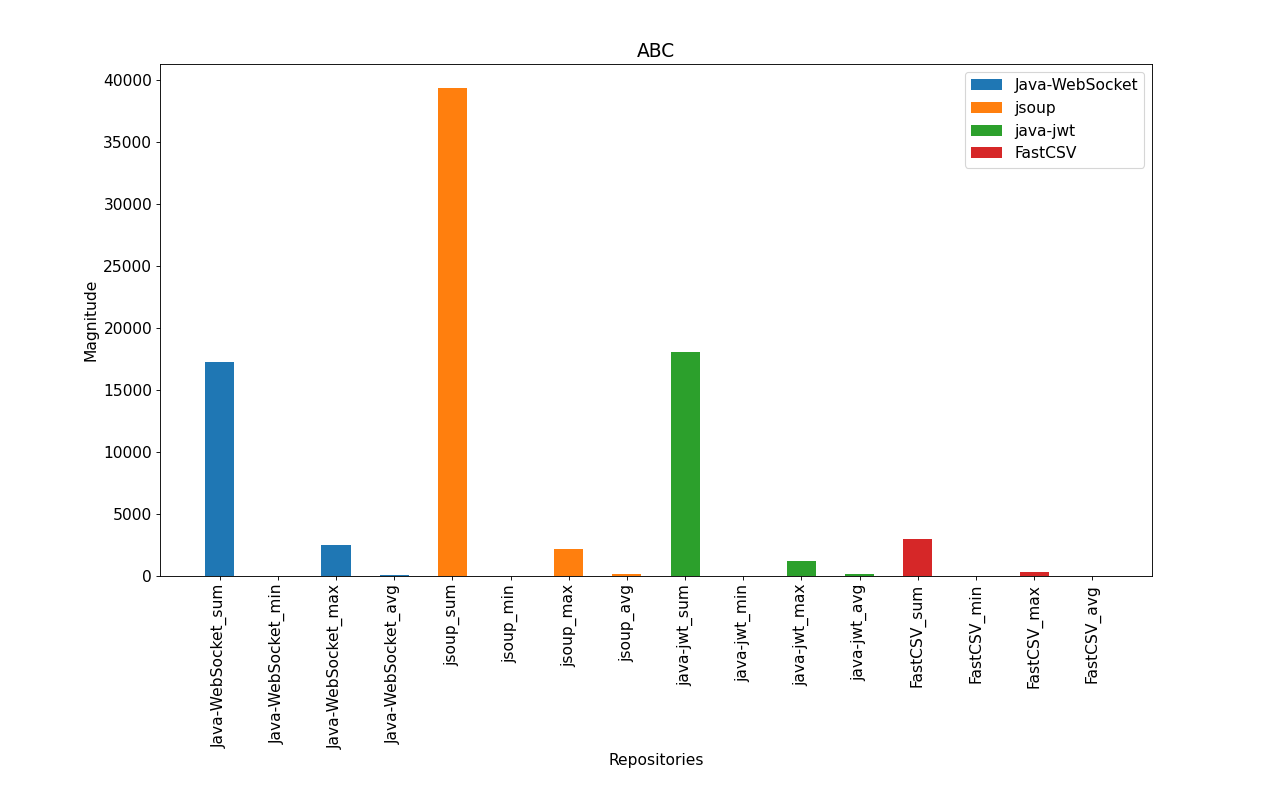
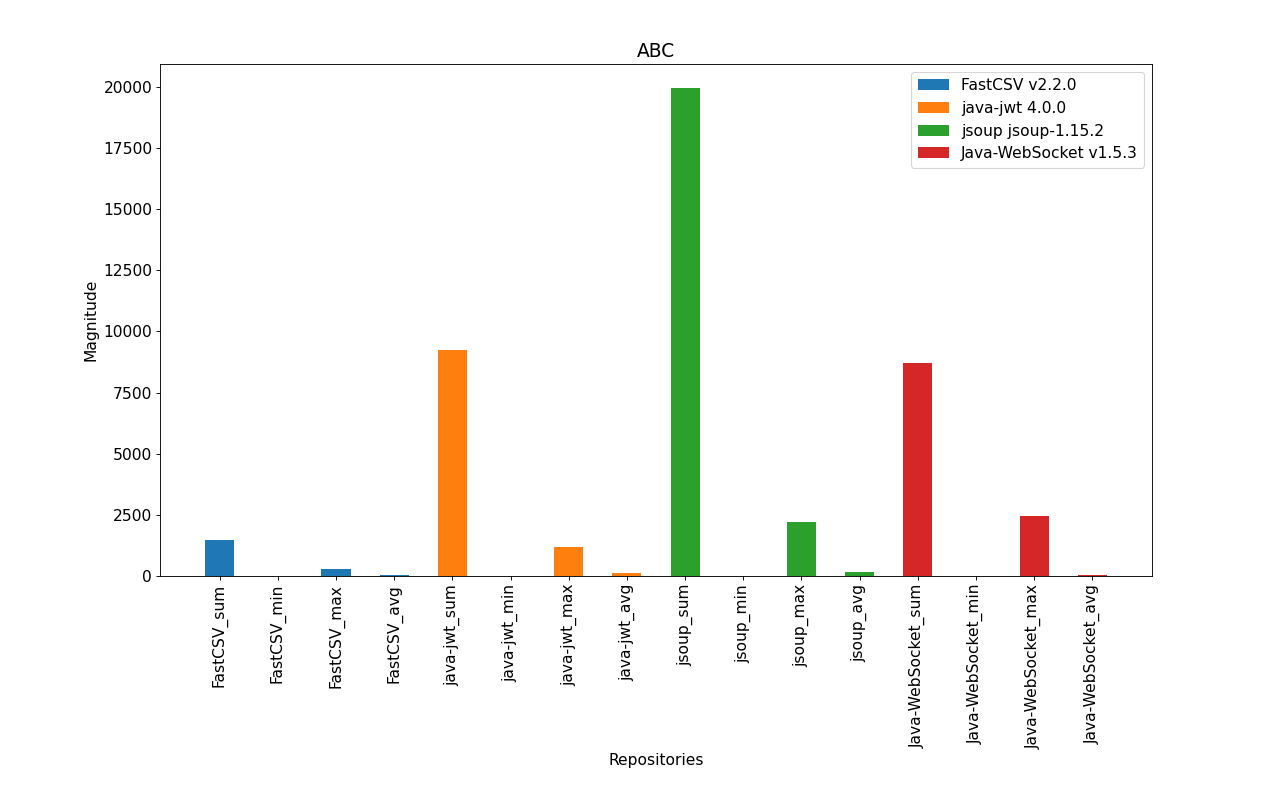
Add NPM and NPA static analysis graphs

diff --git a/static-analysis.py b/static-analysis.py
@@ -1,58 +1,60 @@
+import os
 import json
 import glob
-import os
+import numpy as np
 import matplotlib.pyplot as plt
 from matplotlib.pyplot import figure
-import numpy as np
 
-
-def read_measures(repository_name, sum_list, avg_list, min_list, max_list):
-    magnitude = []
-    for filename in glob.iglob("data/" + repository_name + '**/**/*.json', recursive=True):
+def read_measures(repository_name, version, abc, npm, npa):
+    magn = []
+    pub_met = []
+    pub_att = []
+    for filename in glob.iglob("data/" + repository_name + "/" + version + '/**/*.json', recursive=True):
         with open(filename, "r") as file:
             jsonData = json.load(file)
-            magnitude.append((float(jsonData["metrics"]["abc"]["magnitude"])))
+            magn.append((float(jsonData["metrics"]["abc"]["magnitude"])))
+            pub_met.append((float(jsonData["metrics"]["npm"]["total"])))
+            pub_att.append((float(jsonData["metrics"]["npa"]["total"])))
+
             print(os.path.basename(jsonData["name"]))
             print(jsonData["metrics"]["abc"]["magnitude"])
-    magnitude = [float(x) for x in magnitude]
-    print(magnitude)
-    min_list.append(min(magnitude))
-    max_list.append(max(magnitude))
-    avg_list.append(sum(magnitude) / len(magnitude))
-    sum_list.append(sum(magnitude))
-    print(min_list)
-    print(max_list)
-    print(avg_list)
+    magn = [float(x) for x in magn]
+    pub_met = [float(x) for x in pub_met]
+    print(magn)
+    abc.append( [min(magn), max(magn), sum(magn)/len(magn), sum(magn)] )
+    npm.append( [min(pub_met), max(pub_met), sum(pub_met)/len(pub_met), sum(pub_met)] )
+    npa.append( [min(pub_att), max(pub_att), sum(pub_att)/len(pub_att), sum(pub_att)] )
+    print(abc)
     return
 
 
-def plot_measures(repositories, sum_list, avg_list, min_list, max_list):
+def plot_measures(repositories, versions, abc, title, y_name, file):
     figure(figsize=(16, 10), dpi=80)
     plt.subplots_adjust(top=0.92, bottom=0.28)
     plt.rcParams.update({'font.size': 14})
     plt.xticks(rotation='vertical')
     plt.xlabel("Repositories")
-    plt.ylabel("Magnitude")
-    plt.title("ABC")
+    plt.ylabel(y_name)
+    plt.title(title)
     for i in range(0, len(repositories)):
         x = np.array([repositories[i] + "_sum", repositories[i] + "_min", repositories[i] + "_max", repositories[i] + "_avg"])
-        y = np.array([sum_list[i], min_list[i], max_list[i], avg_list[i]])
-        plt.bar(x, y, 0.5, label=repositories[i])
+        y = np.array([abc[i][3], abc[i][0], abc[i][1], abc[i][2]])
+        plt.bar(x, y, 0.5, label=repositories[i] + " " + versions[i])
     plt.legend()
-    plt.savefig("./graphs/static-analysis/abc-static-analysis.png")
+    plt.savefig("./graphs/static-analysis/" + file)
     return
-
 
 def static_analysis():
-    repositories = ["Java-WebSocket", "jsoup", "java-jwt", "FastCSV"]
-    sum_list = []
-    avg_list = []
-    min_list = []
-    max_list = []
-    for repository in repositories:
-        read_measures(repository, sum_list, avg_list, min_list, max_list)
-    plot_measures(repositories, sum_list, avg_list, min_list, max_list) 
+    repos = ["FastCSV", "java-jwt", "jsoup", "Java-WebSocket"]
+    versions = ["v2.2.0", "4.0.0", "jsoup-1.15.2", "v1.5.3"]
+    abc = []
+    npm = []
+    npa = []
+    for i in range(len(repos)):
+        read_measures(repos[i], versions[i], abc, npm, npa)
+    plot_measures(repos, versions, abc, "ABC", "Magnitude", "abc-static-analysis.png")
+    plot_measures(repos, versions, npm, "NPM", "Number of public methods", "npm-static-analysis.png")
+    plot_measures(repos, versions, npa, "NPA", "Number of public attributes", "npa-static-analysis.png")
     return
-
 
 static_analysis()
